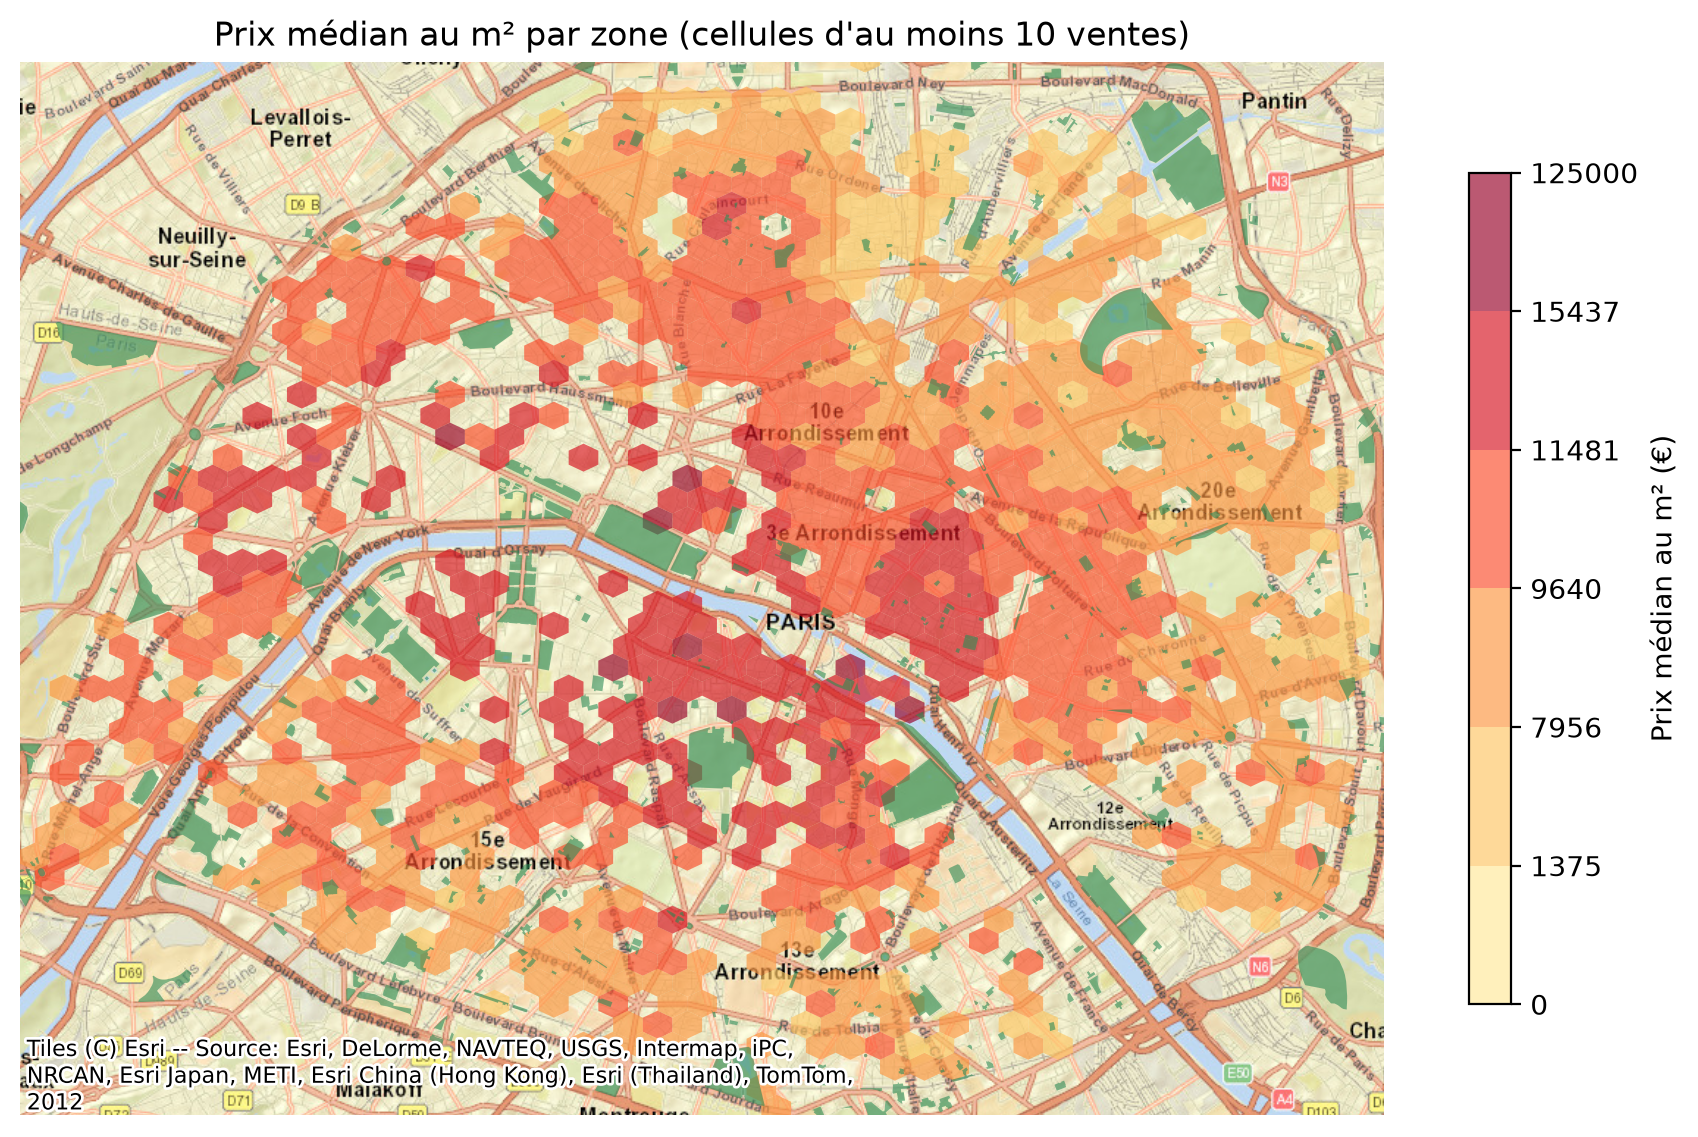
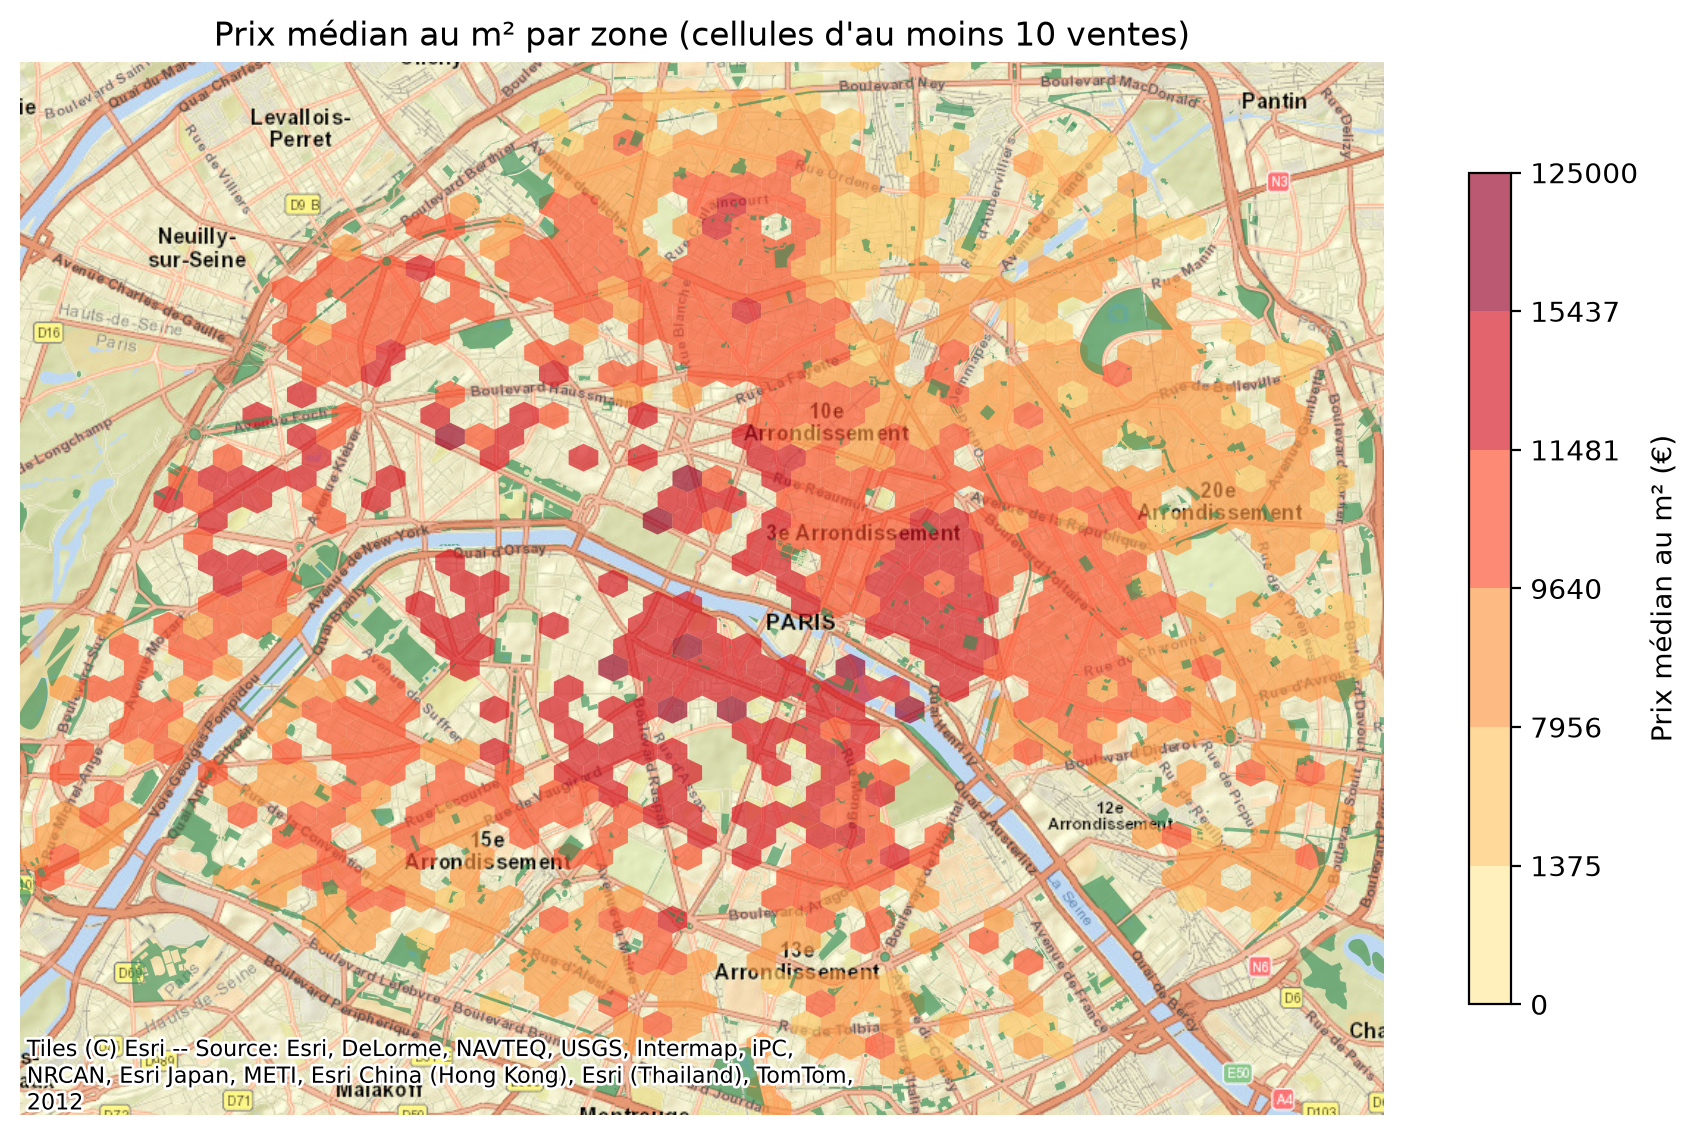
Encore des stats desc en plus

diff --git a/3.contextualisation.py b/3.contextualisation.py
@@ -63,12 +63,12 @@ ev["geometry"] = ev["Geo Shape"].apply(
     lambda s: shape(json.loads(s) if isinstance(s, str) else s)
 )
 gdf_ev = gpd.GeoDataFrame(ev, geometry="geometry", crs="EPSG:4326")   # contours en latitude/longitude
-#ev_3857 = gdf_ev.to_crs("EPSG:3857")                                   # conversion en Web Mercator
+ev_3857 = gdf_ev.to_crs("EPSG:3857")                                   # conversion en Web Mercator
 
 # On garde parcs_publics_nettoyee en Lambert-93 pour calculer les distances en mètres
 parcs_2154 = parcs_publics_nettoyee.to_crs("EPSG:2154").copy()
 parcs_2154["surface_parc_m2"] = parcs_2154.geometry.area
-ev_3857 = parcs_2154.to_crs("EPSG:3857")                             # conversion en Web Mercator
+parcs_3857 = parcs_2154.to_crs("EPSG:3857")                             # conversion en Web Mercator
 
 # cadrage sur Paris (quantiles pour ignorer d'éventuels points isolés)
 marge = 500
@@ -141,19 +141,85 @@ ax.set_title("Prix médian au m² par zone (cellules d'au moins 10 ventes)")
 fig.savefig("figures/carte_prix_m2.png", dpi=200, bbox_inches="tight")
 plt.show()
 
+# %%
+# ----------------------------------------------------------------------------------------
+#                 Carte 3 : Typologie des espaces verts (Parc, Jardin, Square)
+# ----------------------------------------------------------------------------------------
 
+COL_TYPE_ESPACE = "nature"
 
+# On prépare les parcs en Web Mercator (EPSG:3857) avec des majuscules propres
+parcs_3857 = parcs_publics_nettoyee.to_crs("EPSG:3857").copy()
+#parcs_3857[COL_TYPE_PARC] = parcs_3857[COL_TYPE_PARC].str.strip().str.capitalize()
 
-##########################################################################################
-#                                                                                        #
-#                                  Analyse descriptive des données                                  #
-#                                                                                        #                      
-##########################################################################################
+couleurs_types = {
+    "Parc": "#005a32",    # vert très foncé
+    "Jardin": "#238b45",  # vert moyen
+    "Square": "#74c476",  # vert clair
+}
+
+fig, ax = plt.subplots(figsize=(11, 9))
+
+# Tracé catégorie par catégorie pour maîtriser les couleurs et l'ordre d'affichage
+for type_ev in ["Square", "Jardin", "Parc"]:  # On trace les grands parcs en dernier pour qu'ils ressortent bien
+    sous_gdf = parcs_3857[parcs_3857[COL_TYPE_ESPACE] == type_ev]
+    if not sous_gdf.empty:
+        sous_gdf.plot(
+            ax=ax,
+            color=couleurs_types[type_ev],
+            edgecolor="#00441b",
+            linewidth=0.4,
+            alpha=0.85,
+            zorder=2,
+        )
+
+fond_de_carte(ax)
+
+# Légende personnalisée propre
+legend_handles = [
+    Patch(facecolor=couleurs_types["Parc"], edgecolor="#00441b", label="Parc"),
+    Patch(facecolor=couleurs_types["Jardin"], edgecolor="#00441b", label="Jardin"),
+    Patch(facecolor=couleurs_types["Square"], edgecolor="#00441b", label="Square"),
+]
+ax.legend(handles=legend_handles, title="Nature de l'espace vert", loc="lower left", frameon=True, framealpha=0.92)
+ax.set_title("Répartition des espaces verts publics par typologie à Paris")
+
+fig.savefig("figures/carte_typologie_parcs.png", dpi=200, bbox_inches="tight")
+plt.show()
 
 # %%
-sns.set_theme(style="whitegrid", context="notebook")
-os.makedirs("figures", exist_ok=True)
+# ----------------------------------------------------------------------------------------
+#                 Carte 4 : Rayon d'accessibilité de 250 m autour des espaces verts
+# ----------------------------------------------------------------------------------------
 
+# 1. Calcul du buffer de 250 m en mètres (Lambert-93 : EPSG:2154)
+buffers_250m = parcs_2154.buffer(250).union_all()  # fusionne les cercles qui se chevauchent
+gdf_buffers_3857 = gpd.GeoDataFrame(geometry=[buffers_250m], crs="EPSG:2154").to_crs("EPSG:3857")
+
+# 2. Tracé
+fig, ax = plt.subplots(figsize=(11, 9))
+
+# Zone tampon de 250 m en vert très pâle
+gdf_buffers_3857.plot(ax=ax, color="#a1d99b", alpha=0.35, edgecolor="#41ab5d", linewidth=0.8, zorder=1)
+# Espaces verts réels par-dessus en vert foncé
+parcs_3857.plot(ax=ax, color="#006d2c", alpha=0.9, edgecolor="none", zorder=2)
+
+fond_de_carte(ax)
+
+legend_handles = [
+    Patch(facecolor="#006d2c", alpha=0.9, label="Espace vert public"),
+    Patch(facecolor="#a1d99b", alpha=0.45, edgecolor="#41ab5d", label="Zone à moins de 250 m"),
+]
+ax.legend(handles=legend_handles, loc="lower left", frameon=True, framealpha=0.92)
+ax.set_title("Accessibilité aux espaces verts : zones situées à moins de 250 mètres")
+
+fig.savefig("figures/carte_buffers_250m.png", dpi=200, bbox_inches="tight")
+plt.show()
+
+# %%
+# ----------------------------------------------------------------------------------------
+#                 Carte 5 : Ventes colorées selon leur distance au parc le plus proche
+# ----------------------------------------------------------------------------------------
 # Distance au parc public le plus proche (en mètres, grâce au CRS EPSG:2154)
 gdf_desc = gpd.sjoin_nearest(
     pts_2154,
@@ -161,8 +227,54 @@ gdf_desc = gpd.sjoin_nearest(
     how="left",
     distance_col="dist_parc_m",
 )
-print(parcs_publics_nettoyee.columns.tolist())
-COL_TYPE_ESPACE = "nature"
+# On utilise gdf_desc (qui contient dist_parc_m calculé en Lambert-93) et on le passe en 3857
+pts_dist_3857 = gdf_desc.to_crs("EPSG:3857")
+
+fig, ax = plt.subplots(figsize=(11, 9))
+
+# Espaces verts en vert vif
+parcs_3857.plot(ax=ax, color="#1b7837", alpha=0.85, edgecolor="none", zorder=3)
+
+# Hexbin de la distance médiane au parc le plus proche par cellule
+hb = ax.hexbin(
+    pts_dist_3857.geometry.x,
+    pts_dist_3857.geometry.y,
+    C=pts_dist_3857["dist_parc_m"],
+    reduce_C_function=np.median,
+    gridsize=45,
+    mincnt=5,
+    cmap="YlGnBu_r",  # Vert/bleu foncé = très proche d'un parc, jaune = éloigné
+    vmin=0,
+    vmax=500,
+    alpha=0.65,
+    linewidths=0,
+    zorder=2,
+)
+
+fond_de_carte(ax)
+
+cb = fig.colorbar(hb, ax=ax, shrink=0.6, extend="max")
+cb.set_label("Distance médiane au parc le plus proche (mètres)")
+ax.legend(
+    handles=[Patch(facecolor="#1b7837", alpha=0.85, label="Espaces verts publics")],
+    loc="lower left",
+    frameon=True,
+    framealpha=0.92,
+)
+ax.set_title("Accessibilité des logements vendus aux espaces verts publics")
+
+fig.savefig("figures/carte_distance_ventes_ev.png", dpi=200, bbox_inches="tight")
+plt.show()
+##########################################################################################
+#                                                                                        #
+#                                  Analyse descriptive des données                       #
+#                                                                                        #                      
+##########################################################################################
+
+# %%
+sns.set_theme(style="whitegrid", context="notebook")
+os.makedirs("figures", exist_ok=True)
+
 # Évite les doublons si une vente est à égale distance de 2 parcs
 gdf_desc = gdf_desc[~gdf_desc.index.duplicated(keep="first")]
 
